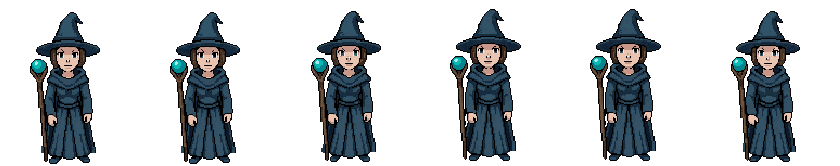
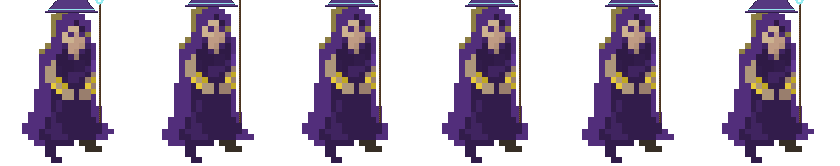
CAS-291: invert CAS-289 — make the attack-animation character canonical in all states
Board bug CAS-288 ("salen diferentes sprites al golpear"): for mage/paladin/
druid/priest the idle/walk strips (CAS-253 PixelLab-native) were a DIFFERENT
character than the attack/death strips (CAS-238/CAS-283 healer/clarice recipe) —
e.g. mage idled BLUE but attacked PURPLE; paladin idled female but attacked male.

CAS-289 mis-fixed this by forcing attack→idle, keeping the STATIC character and
discarding the one with the real attack animation. The board (CAS-290) asked the
OPPOSITE: "deja el sprite que TIENE la animación de ataque, no el estático."

This re-bakes idle+walk for the 4 classes from the SAME CAS-238/CAS-283 recipe
that produced the boss-approved attack/death strips (tools/cas291-class-idlewalk.mjs),
so every state is one consistent character — the animated one. attack/death PNGs
are byte-unchanged (still CAS-283 wide cells); render.js restores CLASS_EXTRA_ANIM
to all 5 classes so the dedicated attack/death strips render again. Warrior
(Clarice) untouched. determinism 5/5, smoke 60fps/0err.

diff --git a/render/render.js b/render/render.js
@@ -98,17 +98,18 @@ const CLASS_HERO_KEYS=["warrior","paladin","mage","druid","priest"];
 // Listed here = SKIP the CAS-167/169 procedural part-mask re-bake (which would overwrite the
 // loaded source strips with the hooded base) AND load their dedicated attack/death strips.
 const CLARICE_CLASSES=new Set(["warrior","paladin","mage","druid","priest"]);
-// CAS-289 (board/jefe bug CAS-288 "salen diferentes sprites al golpear"): for
-// mage/paladin/druid/priest the PixelLab attack/death strips (CAS-253/260) are a
-// DIFFERENT character than their idle/walk strips (CAS-238 healer-pack-derived) —
-// e.g. the mage idles as a blue-robed wizard but attacks as a purple-robed one, and
-// the paladin idles as a female knight but attacks as a male fighter. On every swing
-// the hero visibly morphs into "otro personaje". Until Art re-bakes matching
-// attack/death art for the chosen (idle/portrait) character, drop those mismatched
-// strips so these classes fall back to their OWN idle/walk character + the procedural
-// lunge (the long-shipped pre-CAS-238 look) — the player keeps the sprite they picked.
-// Warrior (Clarice) is consistent across all states, so it keeps its dedicated strips.
-const CLASS_EXTRA_ANIM=["warrior"]; // classes with clsattack_/clsdeath_ strips (Clarice only; see CAS-289)
+// CAS-291 (corrects CAS-289): the board bug CAS-288 ("salen diferentes sprites al
+// golpear") was that idle/walk and attack/death showed DIFFERENT characters for
+// mage/paladin/druid/priest (mage idled blue but attacked purple; paladin idled
+// female but attacked male). CAS-289 mistakenly forced attack→idle, KEEPING the
+// static idle character and discarding the one with the real attack animation. The
+// board's instruction (CAS-290) was the OPPOSITE: "deja el sprite que TIENE la
+// animación de ataque, no el estático." CAS-291 re-bakes idle/walk for these 4
+// classes from the SAME CAS-238/CAS-283 healer/clarice recipe that produced the
+// attack/death strips (tools/cas291-class-idlewalk.mjs), so every state is now ONE
+// consistent character — the one that owns the attack animation. Therefore all 5
+// classes again use their dedicated attack/death strips (no procedural-lunge fallback).
+const CLASS_EXTRA_ANIM=["warrior","paladin","mage","druid","priest"]; // classes with clsattack_/clsdeath_ strips
 const CLASS_ATTACK_FC=6, CLASS_DEATH_FC=6, CLASS_DEATH_DUR=0.7; // Clarice extra-anim frame counts
 // CAS-256: hit-react (hurt) + skill-cast (special) strips. Frame counts/durations MUST
 // match the bake (tools/cas256-warrior-clarice-anims.mjs: hurt 6f, special 8f) and the
